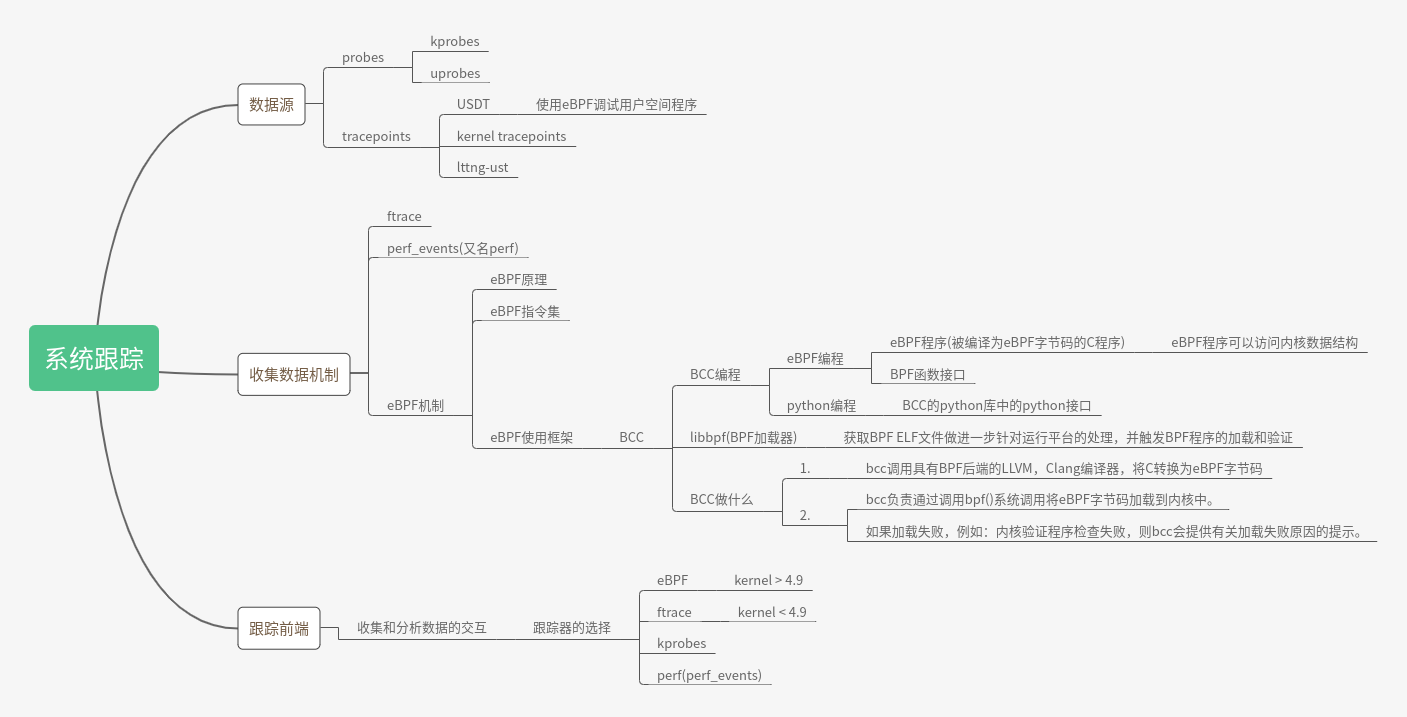
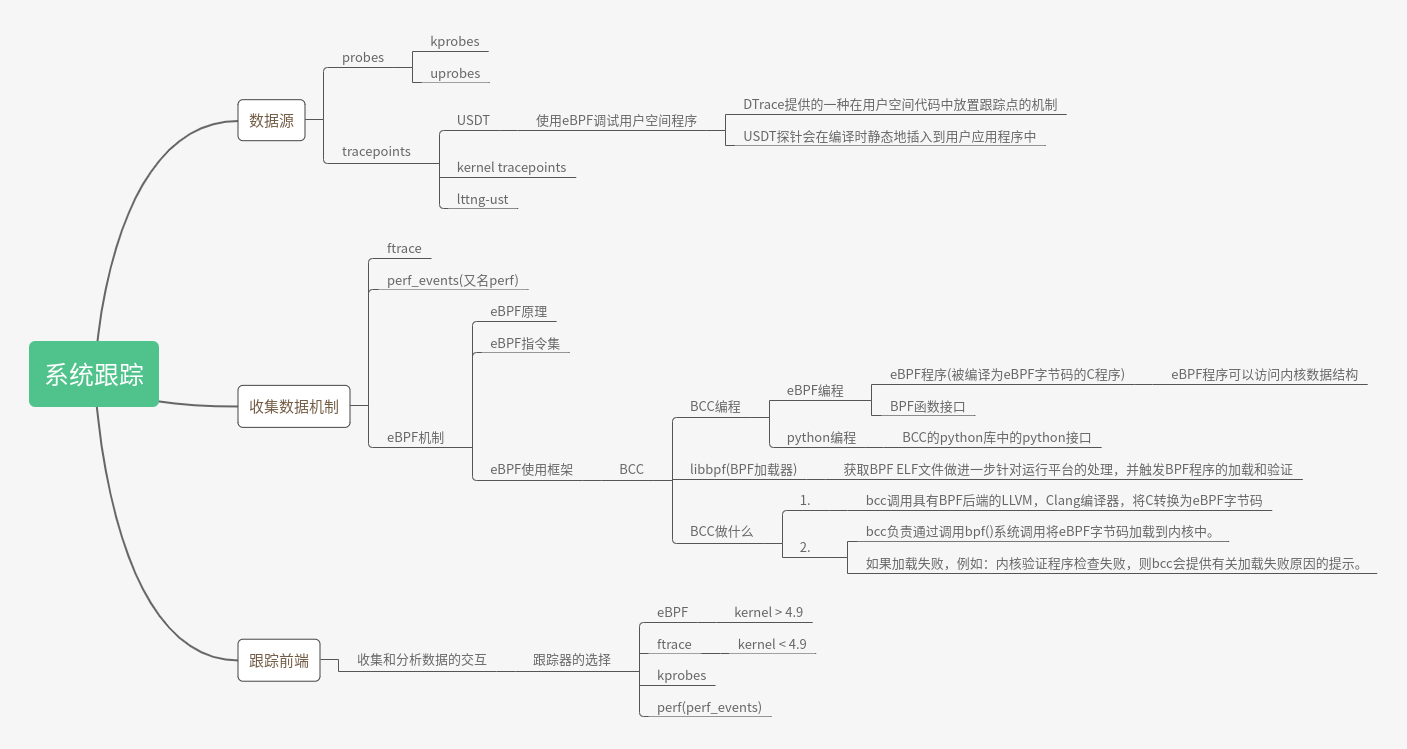
修改内容

diff --git a/tracepoint/tracepoint.py b/tracepoint/tracepoint.py
@@ -6,6 +6,18 @@
 #可以使用perf list命令来列出可用的tracepoints
 #
 #将eBPF程序附加到tracepoint上需要内核版本大于4.7
+#
+# TRACEPOINT_PROBE()宏：该宏声明要附加到跟踪点的函数，\
+#                       每次触发该跟踪点时都会调用该函数
+#  
+#  以下的C代码片段显示了一个空的eBPF程序：该程序每次在内核中调用kmalloc()时运行
+#               TRACEPOINT_PROBE(kmem, kmalloc) { 
+#                       retrurn 0;
+#               }
+#               该宏的参数是跟踪点的类别和事件本身。    \
+#               这将直接转换为debugfs文件系统的层次结构布局 \
+#               (例如：/sys/kernel/debug/traceing/events/category/event)        
+#
 
 #程序功能：
 #           跟踪随机读

diff --git a/interface/BPF/BPF_FUNC_INTERFACE.md b/interface/BPF/BPF_FUNC_INTERFACE.md
@@ -1,4 +1,4 @@
-#### BPF接口函数
+#### BPF接口(函数/宏)
 
 | 函数                       | 功能                                                         |
 | :------------------------- | :----------------------------------------------------------- |
@@ -10,3 +10,14 @@
 | bpf_get_current_common()   | 函数用当前进程名字填充第一个参数地址                         |
 | events.perf_submit()       | 通过ring buffer将事件提交到用户层                            |
 
+#### 接口描述
+
+1. BPF_HASH 和 BPF_TABLE
+
+   虽然BCC提供对内核导出的全部数据结构的访问，但最常用的两个是BPF_HASH和BPF_TABLE。
+
+   从根本上讲，BCC的所有数据结构都是map，在它们之上构建更高级别的数据结构。其中最基本的是BPF_TABLE。
+
+   BPF_TABLE宏接受一种类型的表(hash, percpu_array, or array)作为参数，以及其他宏，如BPF_HASH和BPF_ARRAY仅仅是围绕BPF_TABLE进行包装。
+
+   因为所有的数据结构都是map，所以它们都支持相同的核心功能集，包括map.lookup()，map.update()，和map.delete()。也有一些map特定的功能，如map.perf_read()为BPF_PERF_ARRAY的功能，map.call()为BPF_PROG_ARRAY的功能。

diff --git a/temp/BPF_func_use/maps/README.md b/temp/BPF_func_use/maps/README.md
@@ -1,4 +1,6 @@
-#### 映射
+#### 映射(map)
+
+eBPF程序使用的主要数据结构是eBPF map，eBPF map是一种通用数据结构，它允许在内核内或内核与用户空间之间来回传递数据。顾名思义，“map(地图)”使用键存储和检索数据。
 
 映射的maps是BPF数据保存，高级对象表,哈希表和直方图的基础。
 
